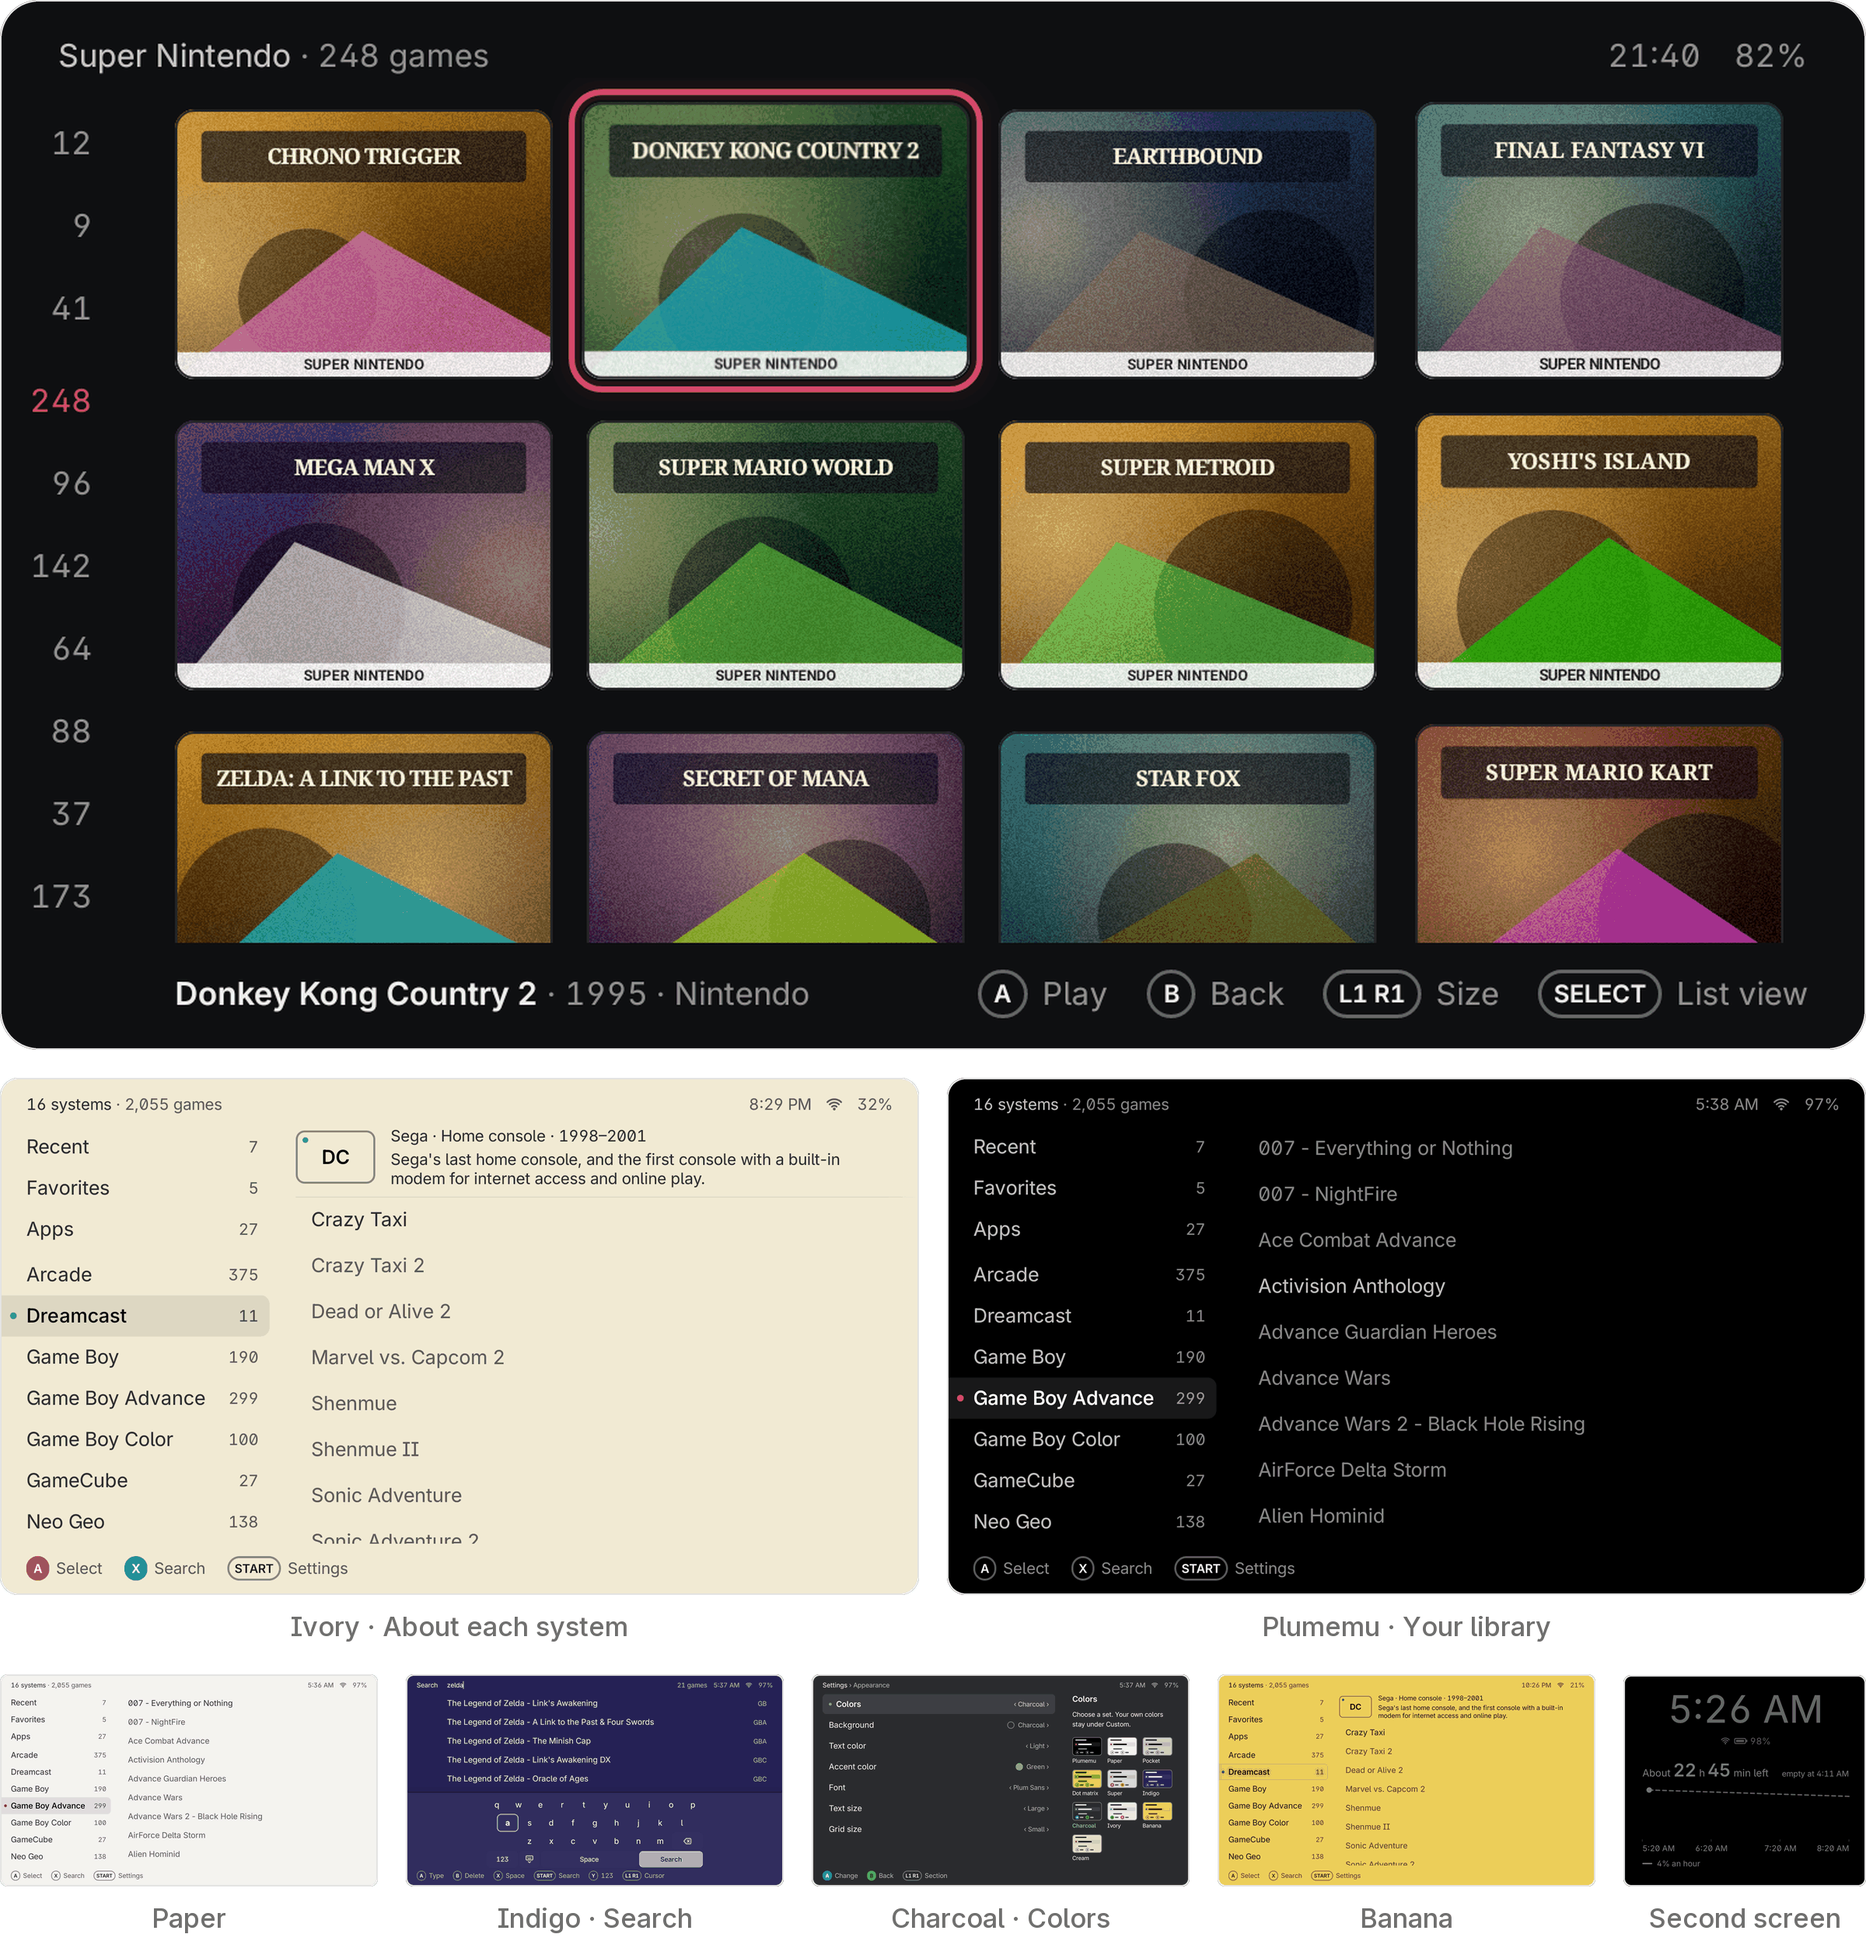
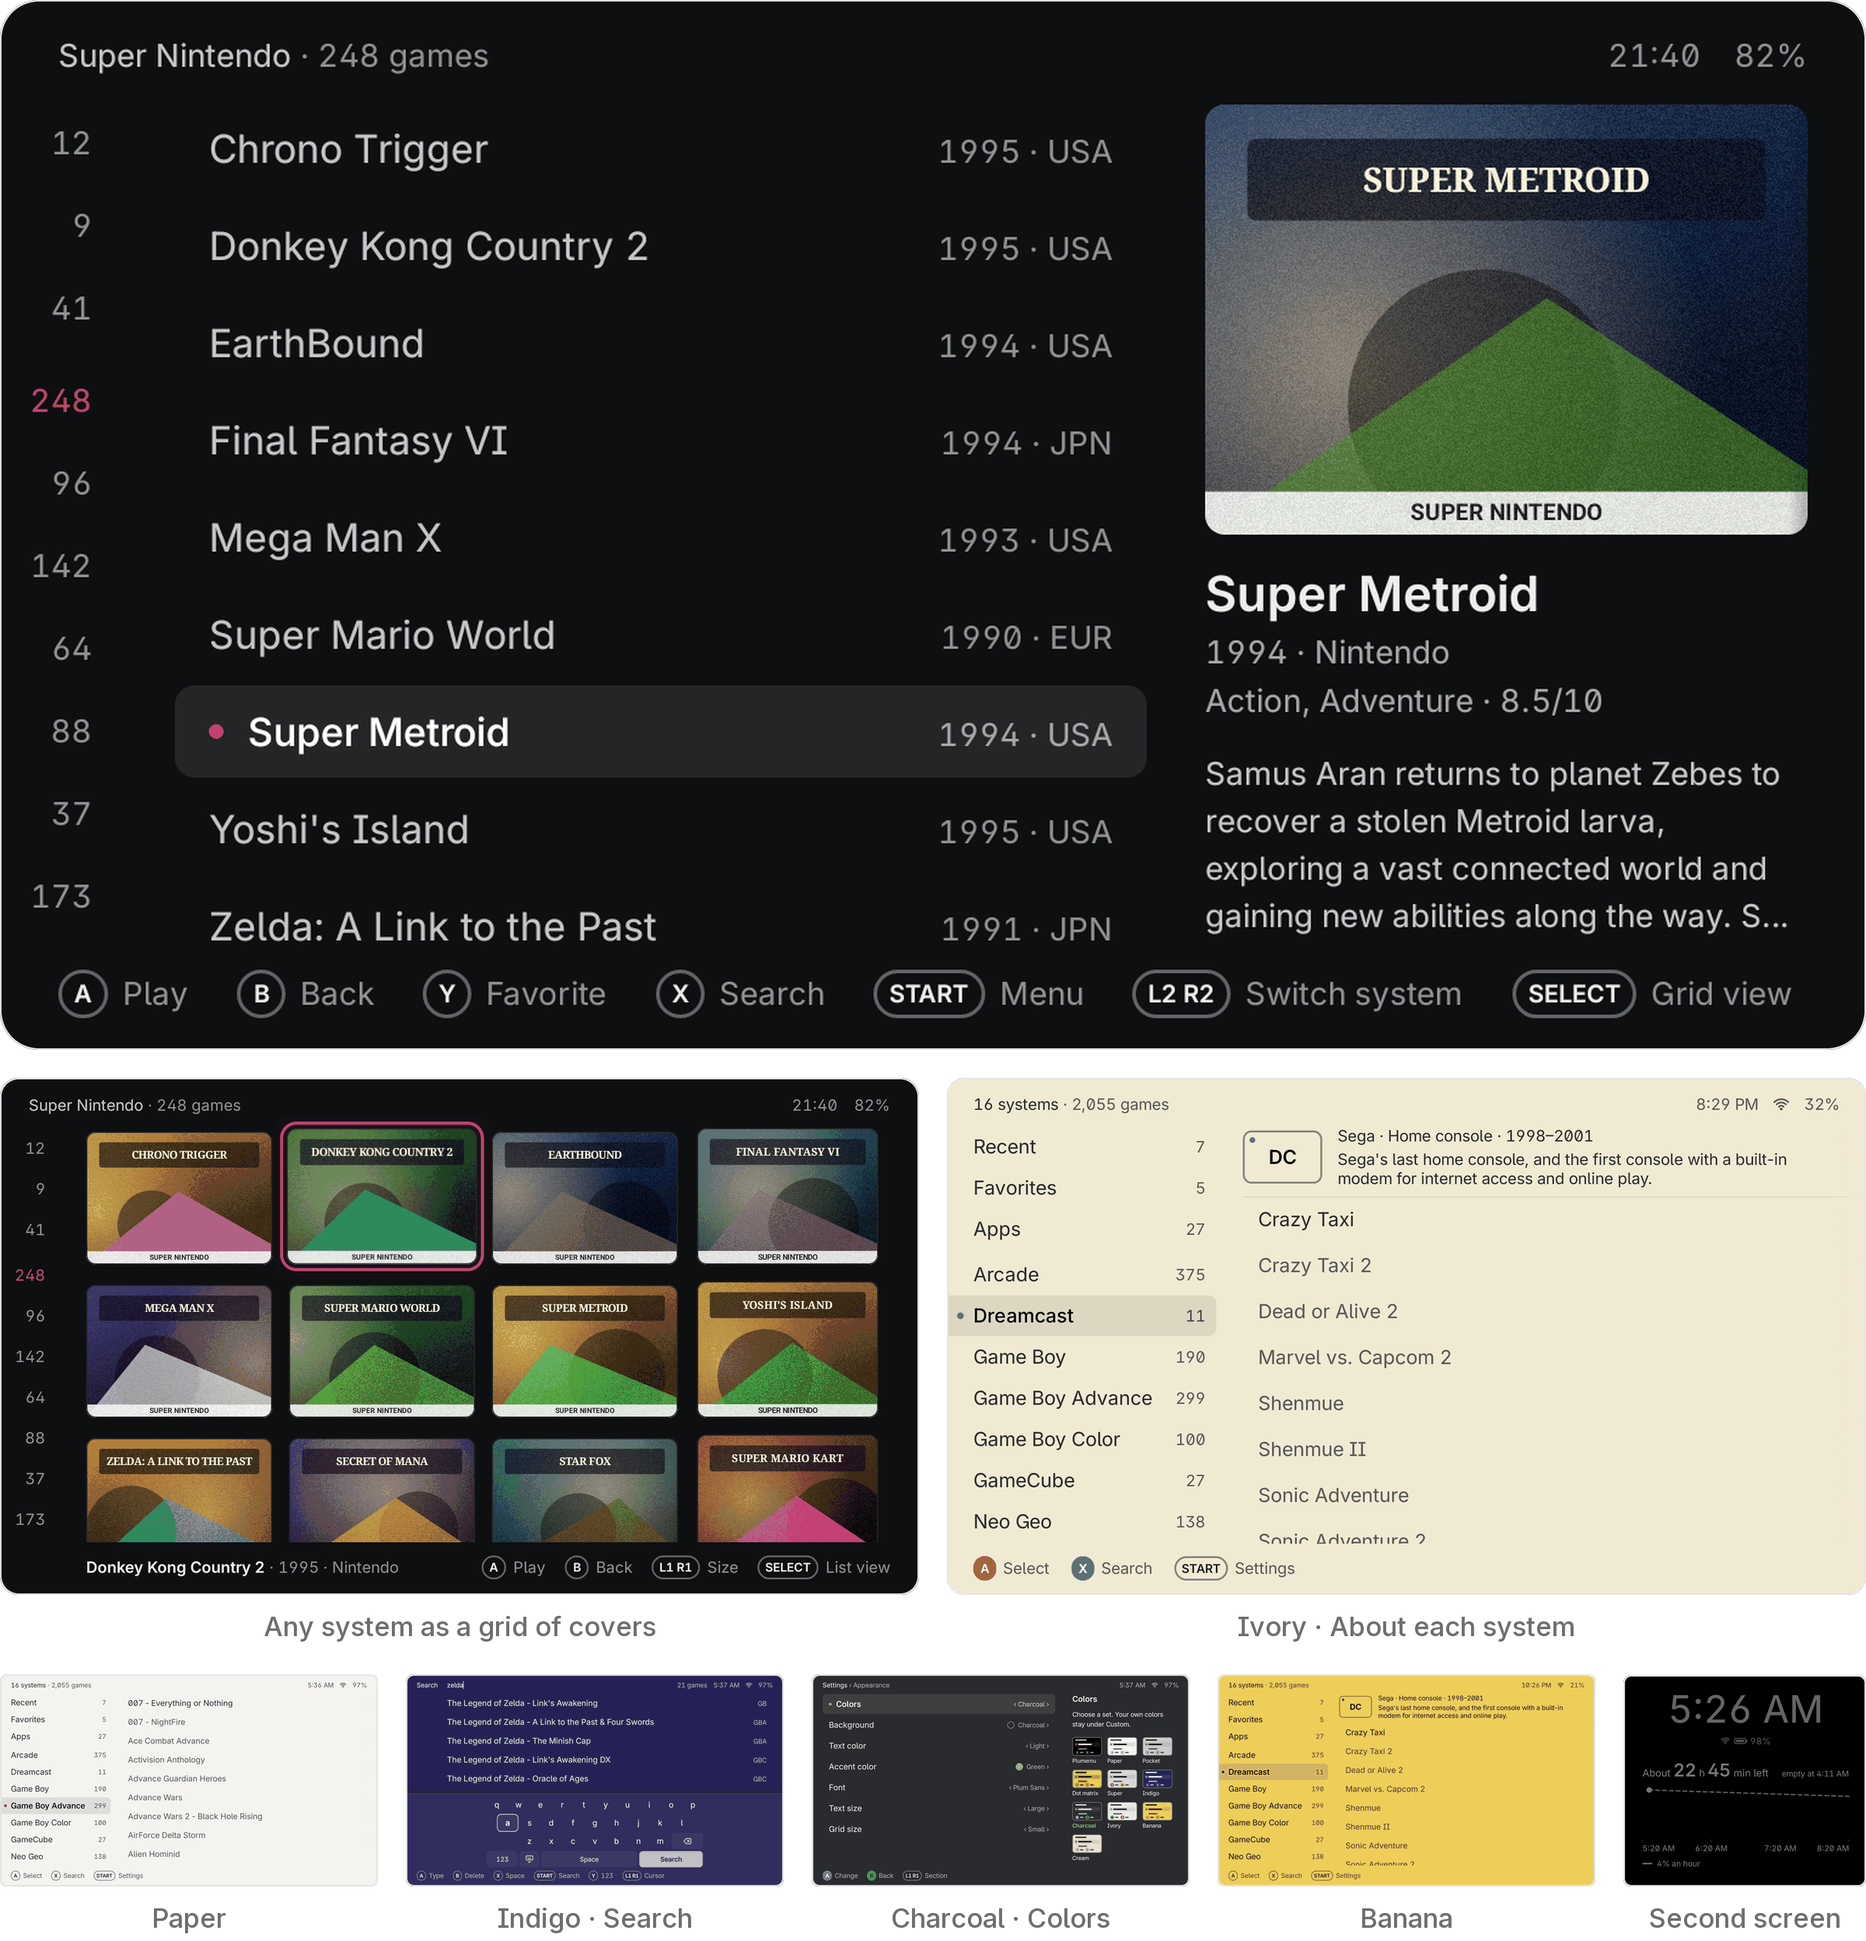
README: hero opens on the game list with its details

diff --git a/README.md b/README.md
@@ -4,7 +4,7 @@
 
 
 <p align="center">
-  <img src="media/hero.png" width="100%" alt="Plumemu on the AYN Thor: Super Nintendo as a grid of covers (drawn stand-ins); below, Dreamcast with its system band in Ivory and the library in the Plumemu colors; then five smaller screens: Paper, Indigo search, Charcoal colors, Banana and the second screen">
+  <img src="media/hero.png" width="100%" alt="Plumemu on the AYN Thor: the Super Nintendo list with the chosen game's cover, year, maker, genre, rating and description on the right (the cover is a drawn stand-in); below, the same system as a grid of covers and Dreamcast with its system band in Ivory; then five smaller screens: Paper, Indigo search, Charcoal colors, Banana and the second screen">
 </p>
 
 <p align="center">
